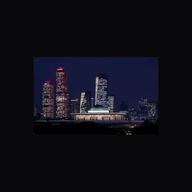
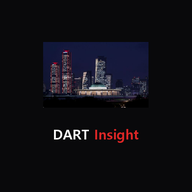
로고 아이콘 + name 공백

Changed region(s): [[0.1562, 0.2188, 0.8438, 0.75]]

diff --git a/public/sw.js b/public/sw.js
@@ -1,5 +1,5 @@
 // DART Insight — Service Worker (PWA + Push)
-const CACHE_NAME = 'dart-insight-v3'
+const CACHE_NAME = 'dart-insight-v4'
 const OFFLINE_URL = '/today'
 
 // 설치: 핵심 리소스 캐싱
